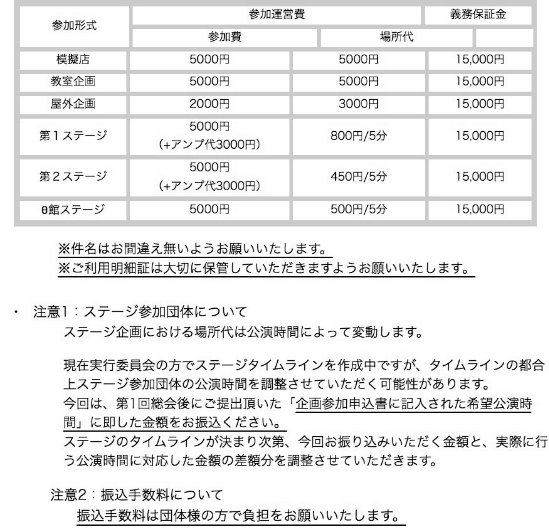
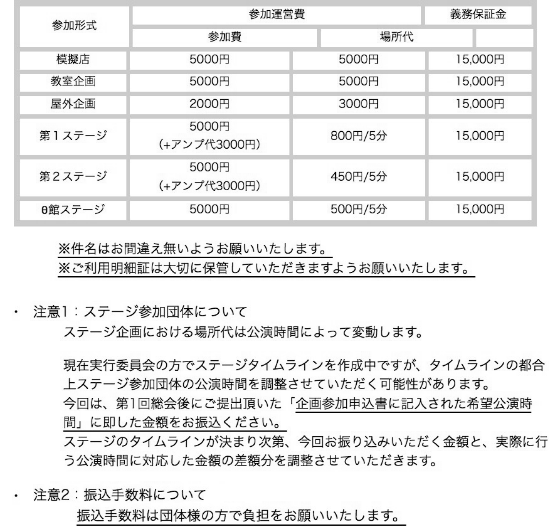
change

Changed region(s): [[0.0619, 0.9091, 0.4026, 0.9697]]

diff --git a/form/form_02_04.php b/form/form_02_04.php
@@ -288,7 +288,7 @@
 		<INPUT style="display: none;" name="formtype[]" value="form0204">
 		<div>
 			<DIV class="description">
-				###ここに注意書き###
+				<IMG src="img/furikomi_chuui.png">
 			</DIV>
 			<DIV class="bigsection">
 				<DIV class="smallsection">
